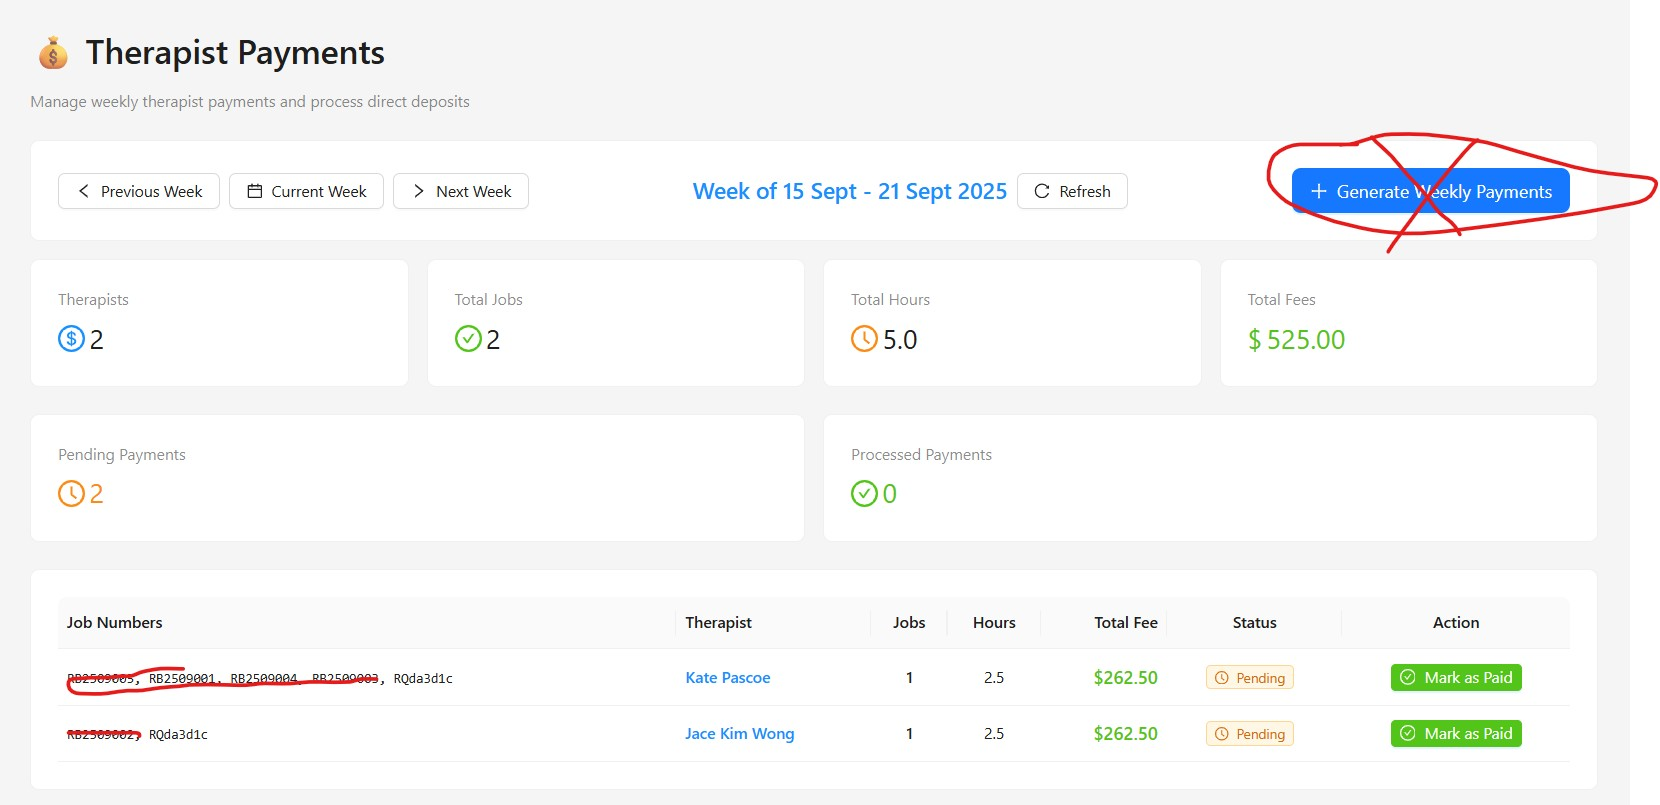
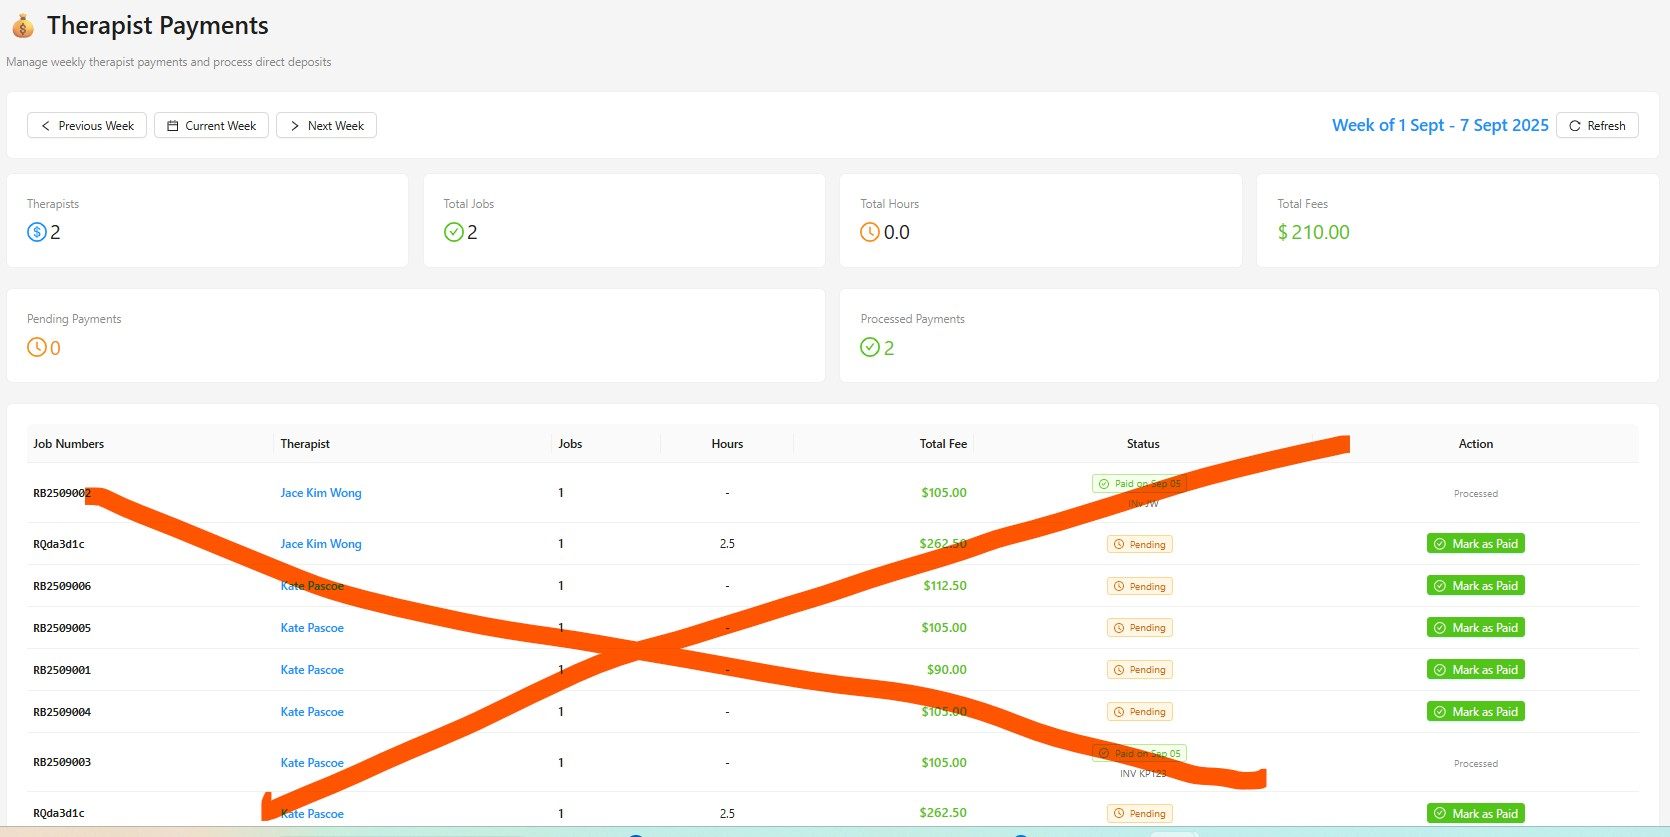
Fix week filtering in admin therapist payments
- Add proper week date filtering to only show jobs within selected week period
- Jobs are now filtered by currentWeek.start and currentWeek.end dates
- Prevents showing all jobs from all time periods in payment list
- My Earnings page unaffected (uses separate 30-day filtering)

🤖 Generated with [Claude Code](https://claude.ai/code)

diff --git a/admin/src/pages/therapist-payments/list.tsx b/admin/src/pages/therapist-payments/list.tsx
@@ -68,7 +68,7 @@ export const TherapistPaymentsList: React.FC = () => {
       );
       setPaymentData(data);
 
-      // Load job breakdown for each therapist
+      // Load job breakdown for each therapist within the selected week only
       const breakdownPromises = data.map(async (payment) => {
         const jobs = await TherapistPaymentService.getTherapistJobBreakdown(
           payment.therapist_id,
@@ -76,7 +76,12 @@ export const TherapistPaymentsList: React.FC = () => {
           currentWeek.end,
           100
         );
-        return { therapistId: payment.therapist_id, jobs };
+        // Filter jobs to only include those within the selected week
+        const weekFiltered = jobs.filter(job => {
+          const jobDate = new Date(job.booking_time);
+          return jobDate >= currentWeek.start && jobDate <= currentWeek.end;
+        });
+        return { therapistId: payment.therapist_id, jobs: weekFiltered };
       });
 
       const breakdownResults = await Promise.all(breakdownPromises);
